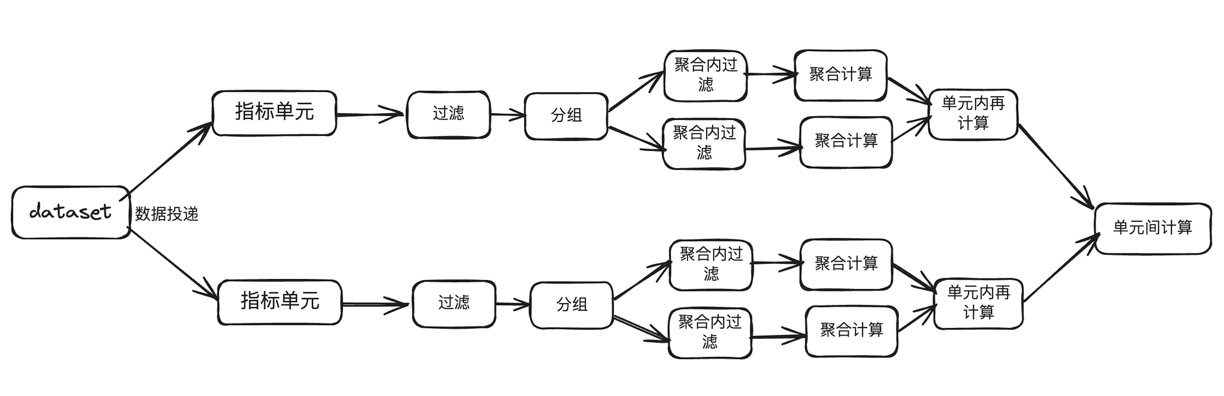
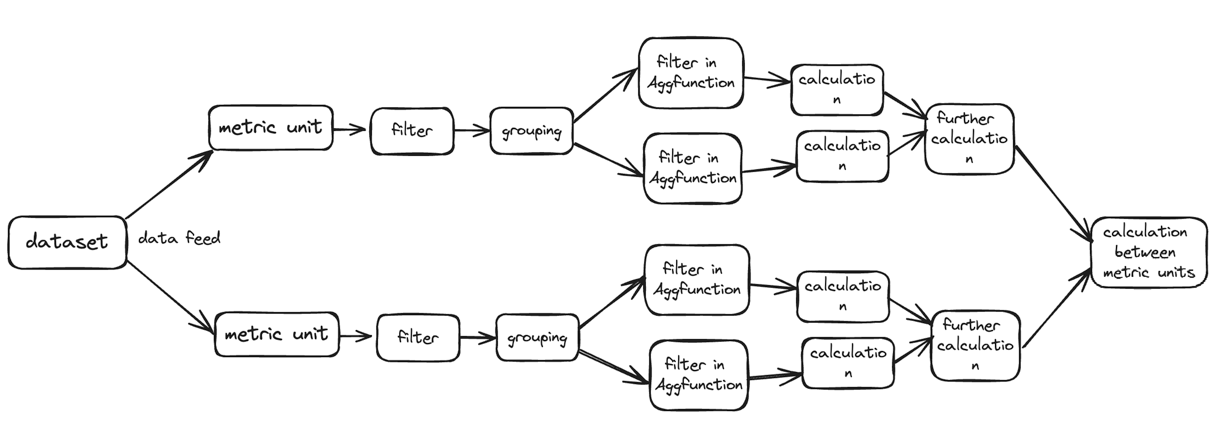
add document of english

Changed region(s): [[0.1218, 0.0606, 1.0, 0.9394], [0.0, 0.4545, 0.1827, 0.6364], [0.5177, 0.9394, 0.6091, 0.9697]]

diff --git a/src/test/java/org/soloquest/soloscan/SoloscanExecutorTest.java b/src/test/java/org/soloquest/soloscan/SoloscanExecutorTest.java
@@ -562,16 +562,15 @@ public class SoloscanExecutorTest {
         Assert.assertTrue(rs.getErrorMessage().contains("S1XX"));
         Assert.assertTrue(rs.getErrorMessage().contains("SCCC"));
 
+        boolean isCaseSensitive = SoloscanOptions.getOption(SoloscanOptions.COLUMN_CASE_INSENSITIVE);
         SoloscanOptions.set(SoloscanOptions.COLUMN_CASE_INSENSITIVE.key(), true);
         rs = instance.validate("{count(S1XX =1)/count(SCCC),;count(S1XX!=null),}", Arrays.asList("sccc","s1xx"));
         Assert.assertTrue(rs.isValid());
-
+        SoloscanOptions.set(SoloscanOptions.COLUMN_CASE_INSENSITIVE.key(),isCaseSensitive);
 
     }
     @Test
     public void testExecuteWithCase() {
-        SoloscanOptions.set(SoloscanOptions.COLUMN_CASE_INSENSITIVE.key(), true);
-
         List<Map> list = new ArrayList<>();
         Map p = new HashMap<>();
         p.put("a", false);
@@ -591,21 +590,8 @@ public class SoloscanExecutorTest {
         list.add(p);
         DataSet dataSet = new ListDataSet<>(list);
         SoloscanExecutorExt executorExt = SoloscanExecutorExt.INSTANCE;
-        Map<String,String> expressionMap = new HashMap<>();
-        expressionMap.put("row1","{sum(col1),,groupkey='a'}");
-        expressionMap.put("row2","{sum(col1),,gRoupkey='b'}");
-        expressionMap.put("row3","{sum(B),,a=false}");
-        expressionMap.put("row4","{sum(b),,a=true}");
-        Object result = executorExt.execute(expressionMap,dataSet);
-        Assert.assertTrue(result instanceof Map);
-        Assert.assertEquals(((Map)result).get("row1"),10l);
-        Assert.assertEquals(((Map)result).get("row2"),5l);
-        Assert.assertEquals(((Map)result).get("row3"),1l);
-        Assert.assertEquals(((Map)result).get("row4"),0l);
-
-        SoloscanOptions.set(SoloscanOptions.COLUMN_CASE_INSENSITIVE.key(), false);
-        dataSet = new ListDataSet<>(list);
-        executorExt = SoloscanExecutorExt.INSTANCE;
+        Map<String,String> expressionMap = null;
+        Object result = null;
         expressionMap = new HashMap<>();
         expressionMap.put("row1","{sum(col1),,groupkey='a'}");
         expressionMap.put("row2","{sum(col1),,gRoupkey='b'}");
@@ -617,5 +603,16 @@ public class SoloscanExecutorTest {
         Assert.assertEquals(((Map)result).get("row2"),0l);
         Assert.assertEquals(((Map)result).get("row3"),0l);
         Assert.assertEquals(((Map)result).get("row4"),0l);
-    }
+
+
+        SoloscanOptions.set(SoloscanOptions.COLUMN_CASE_INSENSITIVE.key(), true);
+
+        dataSet = new ListDataSet<>(list);
+        result = executorExt.execute(expressionMap,dataSet);
+        Assert.assertTrue(result instanceof Map);
+        Assert.assertEquals(((Map)result).get("row1"),10l);
+        Assert.assertEquals(((Map)result).get("row2"),5l);
+        Assert.assertEquals(((Map)result).get("row3"),1l);
+        Assert.assertEquals(((Map)result).get("row4"),0l);
+}
 }

diff --git a/src/test/java/org/soloquest/soloscan/examples/Main.java b/src/test/java/org/soloquest/soloscan/examples/Main.java
@@ -41,7 +41,6 @@ public class Main {
         list.add(p);
         DataSet dataSet = new ListDataSet<>(list);
         SoloscanOptions.set(SoloscanOptions.GENERATE_CLASS.key(), true);
-        SoloscanOptions.set(SoloscanOptions.GENERATE_CLASS_ROOT_PATH.key(), "/Users/hanzhihua/git91/soloscan/soloscan/tmp");
         SoloscanExecutorExt instance = SoloscanExecutorExt.INSTANCE;
         instance.addAggFunction("ds", DoubleSum::new);
         List<String> expressions = new ArrayList<>();

diff --git a/readme_en.md b/readme_en.md
@@ -1,0 +1,169 @@
+# soloscan
+
+Metric expressions running on the JVM.
+
+## Features
+* Runs on the JVM, independent of data engine computing power.
+* Can calculate multiple metric expressions at once, without pre-calculation.
+* Supports common aggregation methods (Max, Min, Avg, Sum, Count) and further calculation of aggregation results.
+* Supports operations like grouping, filtering, and union.
+* Grouping supports calculated fields.
+* Supports custom ordinary functions and aggregation functions.
+
+## Examples of expressions
+* {count(SCCC),SCCC,SCCC in [5,11,9999]}
+* {count(QD2f2_1 in [4,5])/count(QA1_2=1),week,week in range(513,520,1)}
+* slide({count(QD2f2_1 in [4,5])/count(QA1_2=1),week,week in range(500,520,1)},4)
+* {count(SCCC),SCCC,SCCC=5} union { count(SCCC),SCCC,SCCC=11 } union { count(SCCC),SCCC,SCCC=9 }
+
+## Instructions
+### Expression explanation
+* Metric expression: Composed of metric units and calculations between units, mainly union calculations, e.g., metric unit union metric unit.
+* Metric unit: Includes metric calculation, grouping, and filtering in three parts, in the form: {metric calculation, grouping, filtering} or {metric calculation, grouping, filtering; metric calculation, grouping, filtering}
+  * Starts with "{", ends with "}", the three parts are separated by ",", the first part is the metric calculation which is required, the second part is grouping (optional, if empty, just input a comma), and the third part is filtering (optional).
+  * Example: {SUM(SalesAmount1)/SUM(SalesAmount2), SalesDate, SalesDate >= '2022-01-01' AND SalesDate <= '2022-12-31'}
+    * Metric calculation content: SUM(SalesAmount1)/SUM(SalesAmount2), grouping content: SalesDate, filtering content: SalesDate >= '2022-01-01' AND SalesDate <= '2022-12-31'
+* Metric calculation: Aggregation function (field, [filter condition]), supports further calculation of results.
+  * Example: sum(SCCC), sum(SCCC) / sum(SCCC1), sum(SCCC) / sum(SCCC1) / sum(SCCC2)
+* Grouping: Field (supports calculated fields).
+  * If multiple fields are included, the format is: "grouping(field1, field2, ...)"
+* Filtering: Filter conditions, supports array comparison, logical union, parentheses precedence, and ordinary functions.
+
+### Calculation operators
+* Mathematical calculation: +, -, *, /, %
+* Logical calculation: ||, &&
+* Comparison calculation: >, >=, =, <=, <
+* Function calculation: Aggregation functions, ordinary functions, explained below
+* Operator precedence: Follows default operator precedence
+
+### Aggregation functions
+* Count
+    * Syntax: count(column)
+    * Description: Counts non-null columns
+* Countblank
+  * Syntax: countblank(column)
+  * Description: Counts null columns, equivalent to count(column==null)
+* Average
+  * Syntax: Average(column)
+  * Description: Returns the arithmetic mean of all numbers in the column
+* AverageX
+  * Syntax: AverageX(column, filter)
+  * Description: Adds a filter condition to Average
+* MAX
+  * Syntax: Max(column)
+  * Description: Returns the maximum value in the column
+* MAXX
+  * Syntax: Maxx(column, filter)
+  * Description: Adds a filter condition to max
+* MIN
+  * Syntax: Min(column)
+  * Description: Returns the minimum value in the column
+* MINx
+  * Syntax: Minx(column, filter)
+  * Description: Adds a filter condition to min
+* SUM
+  * Syntax: sum(column)
+  * Description: Sums all values in a column
+* SUMx
+  * Syntax: sumx(column, filter)
+  * Description: Adds a filter condition to sum
+
+### Filter conditions
+* Description: Calculates whether the filter conditions are met, returns true or false
+* Example: column1 = 12 && column2>2 || ( column3 in range(2,1,10) && column4 in [1,2,3])
+
+### Ordinary functions
+* Range
+  * Syntax: RANGE(start value, end value, step size)
+    * Left-closed and right-open
+  * Example: range(1,10,2), returns [1,3,5,7,9]
+  * Description: Returns a list Range object, supports in operation
+* In
+  * Syntax: column in [1,2,3]
+  * Description: Returns whether column is in the list
+* Slide
+  * Syntax: Slide(metric result, windowSize)
+
+### Project Examples
+![demo.png](demo.png)
+This example uses Excel as the dataset, with the first row being the column names and each subsequent row being the data. Column names are case insensitive.
+
+* Calculate the number of rows in the entire dataset: {count()}.
+* Calculate the number of rows where SCCC is not null: {count(SCCC)}.
+* Calculate the number of rows where SCCC is not equal to 1: {count(SCCC!=1)}
+* Calculate the number of rows where SCCC is not equal to 1 and group by week: {count(SCCC!=1),week}
+* Calculate the number of rows where SCCC is not equal to 1 and RQ is not equal to 1: {count(SCCC!=1),,RQ!=1}
+* Calculate the number of rows where SCCC is not equal to 1 and RQ is not equal to 1, and group by week: {count(SCCC),week,RQ!=1}
+  * {count(SCCC),week,RQ!=1} and {count(),week,SCCC!=null&&RQ!=1}  is equivalent to the difference between filtering within the aggregation function and external filtering in SQL.
+* Calculate the number of rows where SCCC is not equal to 1 and RQ is not equal to 1, and group by week, with a default operation for count: {count(SCCC),week,RQ!=1;count(),week}
+* Calculate the ratio of SCCC not equal to 1 to count, and RQ not equal to 1, grouped by week: {count(SCCC)/count(),week,RQ!=1}
+* Calculate the ratio of SCCC not equal to 1 to count, and RQ not equal to 1, grouped by week, and the ratio of SCCC not equal to 1 to count, and RQ equal to 1, grouped by week, union: {count(SCCC)/count(),week,RQ!=1} union {count(SCCC)/count(),week,RQ=1}
+
+## Development Usage
+
+* Maven dependencies
+```xml
+<dependency>
+            <groupId>io.github.hanzhihua-0725</groupId>
+            <artifactId>soloscan</artifactId>
+            <version>0.1.5</version>
+        </dependency>
+```
+* Code usage
+```java
+DataSet dataSet = new ListDataSet<>(list);
+        SoloscanExecutorExt executorExt = SoloscanExecutorExt.INSTANCE;
+        Map<String,String> expressions = new HashMap<>();
+        expressions.put("row1","{sum(col1),,}");
+        expressions.put("row2","{count(col1),,}");
+        ...
+        expressions.put("rown","{count(col1),,}");
+        System.out.println(executorExt.execute(expressions,dataSet));
+```
+
+## System Design
+### Operating Principle
+The metric expression adopts a compiled execution method, using ASM to generate JVM bytecode, loading and generating related classes and instances, and then executing.
+![run_principle.png](run_principle.png)
+
+### Expression Grammar
+Arithmetic Operators ::= "+" | "-" | "*" | "/"
+
+Comparison Operators ::= "=" | "!=" | "<" | ">" | "<=" | ">="
+
+Logical Operators ::= "&&" | "||" | "!"
+
+Aggregation Functions ::= SUM | SUMX | MAX | MAXX | MIN | MINX | AVG | AVGX | COUNT | COUNTBLANK
+
+ComparisonCondition ::= Field Comparison Operators Value
+
+Filter Part ::= ComparisonCondition (Logical Operators ComparisonCondition)*
+
+Aggregation Expression ::= Aggregation Functions(Field, Filter Part)
+
+Calculation Part ::= Aggregation Expression (Arithmetic Operators Aggregation Expression)*
+
+Grouping Part ::= Field ("," Field)*
+
+Calculation Unit ::= "{" Calculation Part "," Grouping Part? "," Filter Part? "}"
+
+Solo Expression ::= Calculation Unit (union Calculation Unit)*
+
+### Compilation
+Tokens parsed from the syntax are converted into reverse Polish notation, and then classes and instances are generated through ASM.
+
+### Runtime
+Tokens parsed from the syntax are converted into corresponding SObject objects, and then operations are performed through the methods in SObject
+
+| Type | Example                          | Runtime       |
+|------|----------------------------------|---------------|
+| String   | "xyz",'xyz'                      | SString       |
+| Number   | 22,22.2                          | SLong,SDouble |
+| Variable   | xyz,TRUE                         | SVariable     |
+| Operator  | +,-,*,/,%,&&,\|\|,>,>=,=,<=,<,in | 对应SObject中的方法 |
+| Function   | xyz()                            | SFunction     |
+| Aggregation Function | count()                          | AggFunction   |
+| Calculation Unit | {Calculation Part, Grouping Part, Filter Part}              | SMetric       |
+
+### Execution Process
+![data_flow.png](data_flow.png)

diff --git a/README.md b/README.md
@@ -1,3 +1,4 @@
+[(English Documents Available)](readme_en.md)
 # soloscan
 
 运行在JVM中的指标表达式。
@@ -125,6 +126,8 @@ DataSet dataSet = new ListDataSet<>(list);
 ### 运行原理
 指标表达式采用编译执行方式，使用asm生成jvm字节码，加载并生成相关的类和实例，然后执行。
 ![run_principle.png](run_principle.png)
+
+
 
 ### 表达式文法
 算数运算符 ::= "+" | "-" | "*" | "/"
